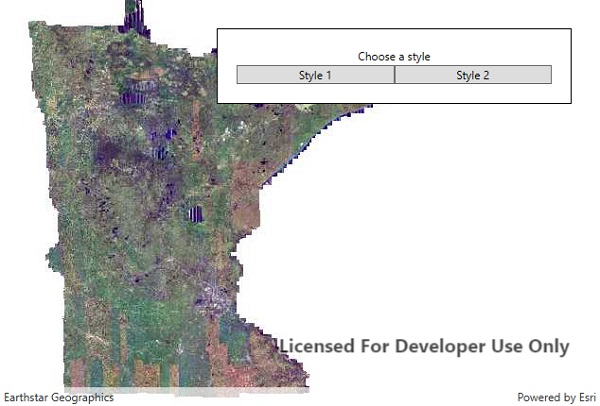
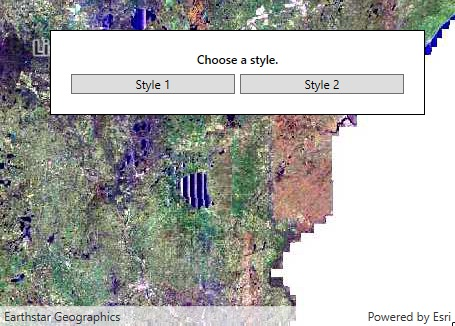
Style WMS layers
Improvements:

* Added margin between controls.
* Improved help text formatting.

diff --git a/src/WPF/ArcGISRuntime.WPF.Viewer/Samples/Layers/StyleWmsLayer/StyleWmsLayer.xaml b/src/WPF/ArcGISRuntime.WPF.Viewer/Samples/Layers/StyleWmsLayer/StyleWmsLayer.xaml
@@ -18,17 +18,19 @@
                     <ColumnDefinition Width="*"/>
                     <ColumnDefinition Width="*"/>
                 </Grid.ColumnDefinitions>
-                <TextBlock Text="Choose a style" 
+                <TextBlock Text="Choose a style." 
                            Grid.Row="0" Grid.Column="0" Grid.ColumnSpan="2"
                            Margin="0,0,0,2" TextWrapping="Wrap"
-                           TextAlignment="Center" />
+                           TextAlignment="Center" FontWeight="SemiBold" />
                 <Button x:Name="FirstStyleButton"
                         Grid.Row="1" Grid.Column="0" 
+                        Margin="0,5,2.5,0"
                         Content="Style 1"
                         IsEnabled="False"
                         Click="FirstStyleButton_Clicked"/>
                 <Button x:Name="SecondStyleButton"
                         Grid.Row="1" Grid.Column="1"
+                        Margin="2.5,5,0,0"
                         Content="Style 2"
                         IsEnabled="False"
                         Click="SecondStyleButton_Clicked" />
